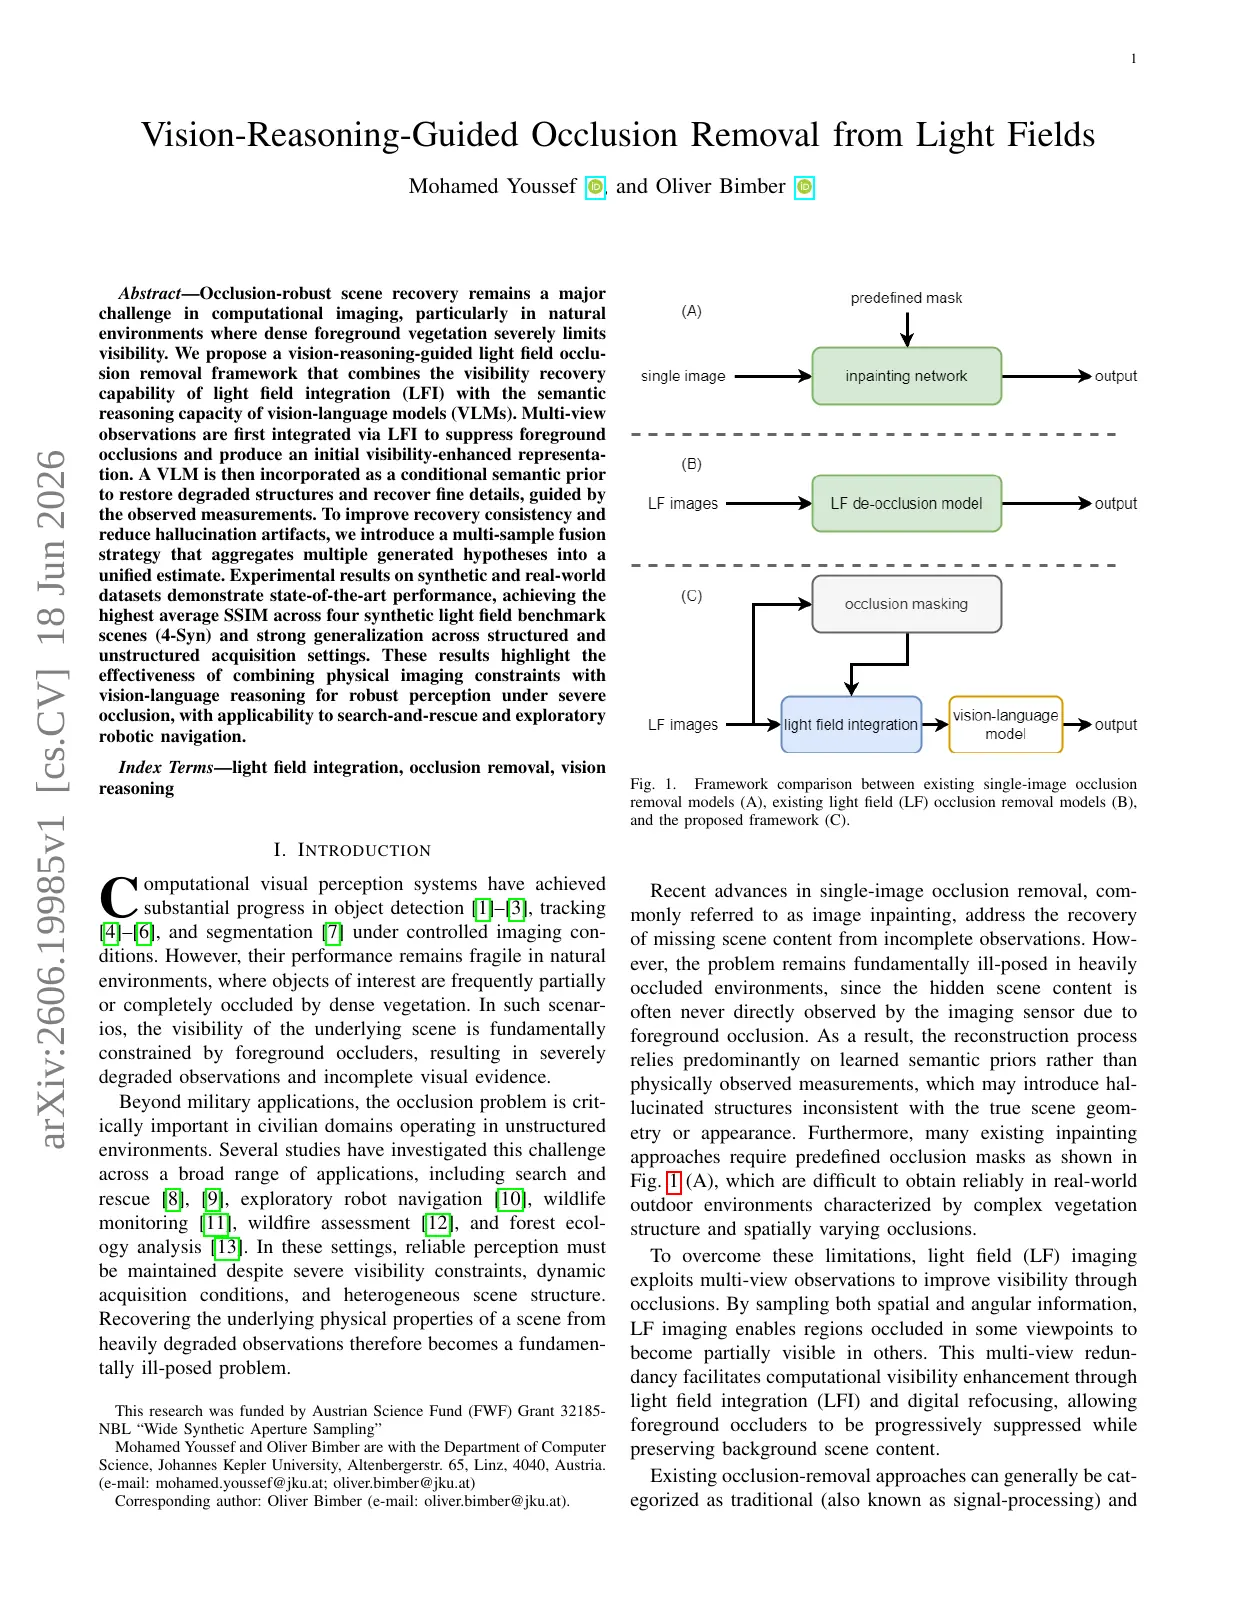
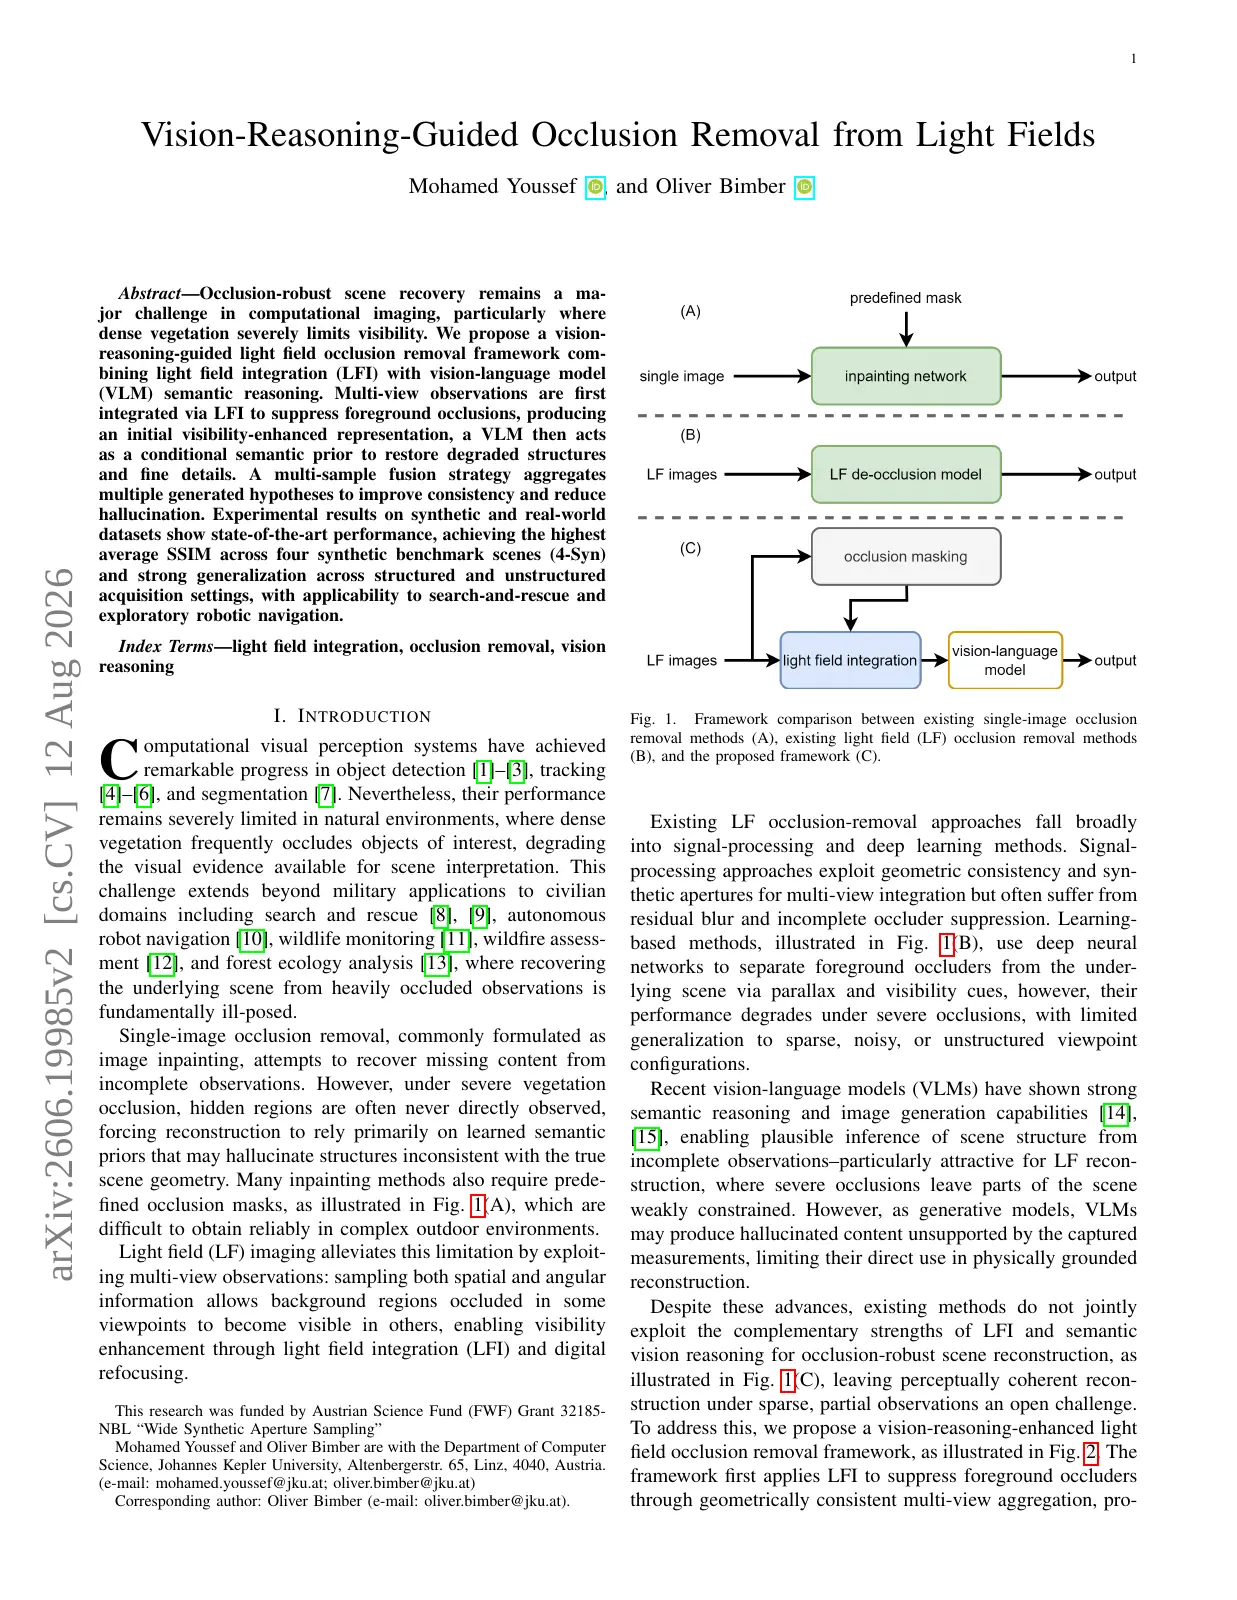
chore: update weekly LF paper digest

diff --git a/daily_reports/202608/20260816.md b/daily_reports/202608/20260816.md
@@ -1,0 +1,32 @@
+# 光场底层视觉周报 20260810 — 20260816
+
+> 聚焦普通光场图像的超分、恢复、重建、深度与视差估计及相关底层视觉任务。
+
+## 本周概况
+
+- 统计周期：20260810 至 20260816
+- arXiv 抓取：3 篇
+- 关键词硬筛：2 篇
+- 最终精选：2 篇
+
+## 精选论文
+
+### 1. Vision-Reasoning-Guided Occlusion Removal from Light Fields
+
+- **任务**：去遮挡
+- **TL;DR**：提出一种结合光场积分（LFI）与视觉语言模型（VLM）语义推理的光场去遮挡框架。LFI先通过几何一致的多视角聚合抑制前景遮挡，VLM随后作为条件语义先验恢复退化结构与高频细节，多样本融合策略聚合多个生成假设以降低幻觉。在合成与真实数据集上达到SOTA，在4-Syn基准上取得最高平均SSIM，适用于搜索救援与机器人导航等场景。
+- **入选理由**：摘要提出一种视觉推理引导的光场去遮挡框架，通过多视角观测积分抑制前景遮挡。
+- **综合分数**：0.87 · **版本更新**
+- **链接**：[arXiv](https://arxiv.org/abs/2606.19985v2) · [PDF](https://arxiv.org/pdf/2606.19985v2) · [深度报告](https://github.com/WendingZhao/LF-PaperBot/issues/2)
+
+### 2. Fast Implicit Neural Light Field Representation via Geometric Decomposition and Multi-Resolution Low-Rank Features
+
+- **任务**：重建与插值
+- **TL;DR**：本文提出一种基于几何分解和多分辨率低秩特征的快速隐式神经光场表示方法。该方法将4D光场分解为水平视差平面、空间纹理平面和垂直视差平面，每个平面采用低分辨率2D网格与高分辨率1D线特征乘积的多分辨率低秩结构表示，并由轻量级MLP解码预测RGB。实验表明，该方法在公开数据集上实现了极具竞争力的重建质量，并在模型参数量、训练时间和推理效率之间取得了更优的平衡。
+- **入选理由**：摘要明确提出基于几何分解和多分辨率低秩特征的快速隐式光场表示用于稠密光场重建。
+- **综合分数**：0.82
+- **链接**：[arXiv](https://arxiv.org/abs/2608.13949v1) · [PDF](https://arxiv.org/pdf/2608.13949v1) · [深度报告](https://github.com/WendingZhao/LF-PaperBot/issues/8)
+
+---
+
+由 [LF-PaperBot](https://github.com/WendingZhao/LF-PaperBot) 自动生成。
